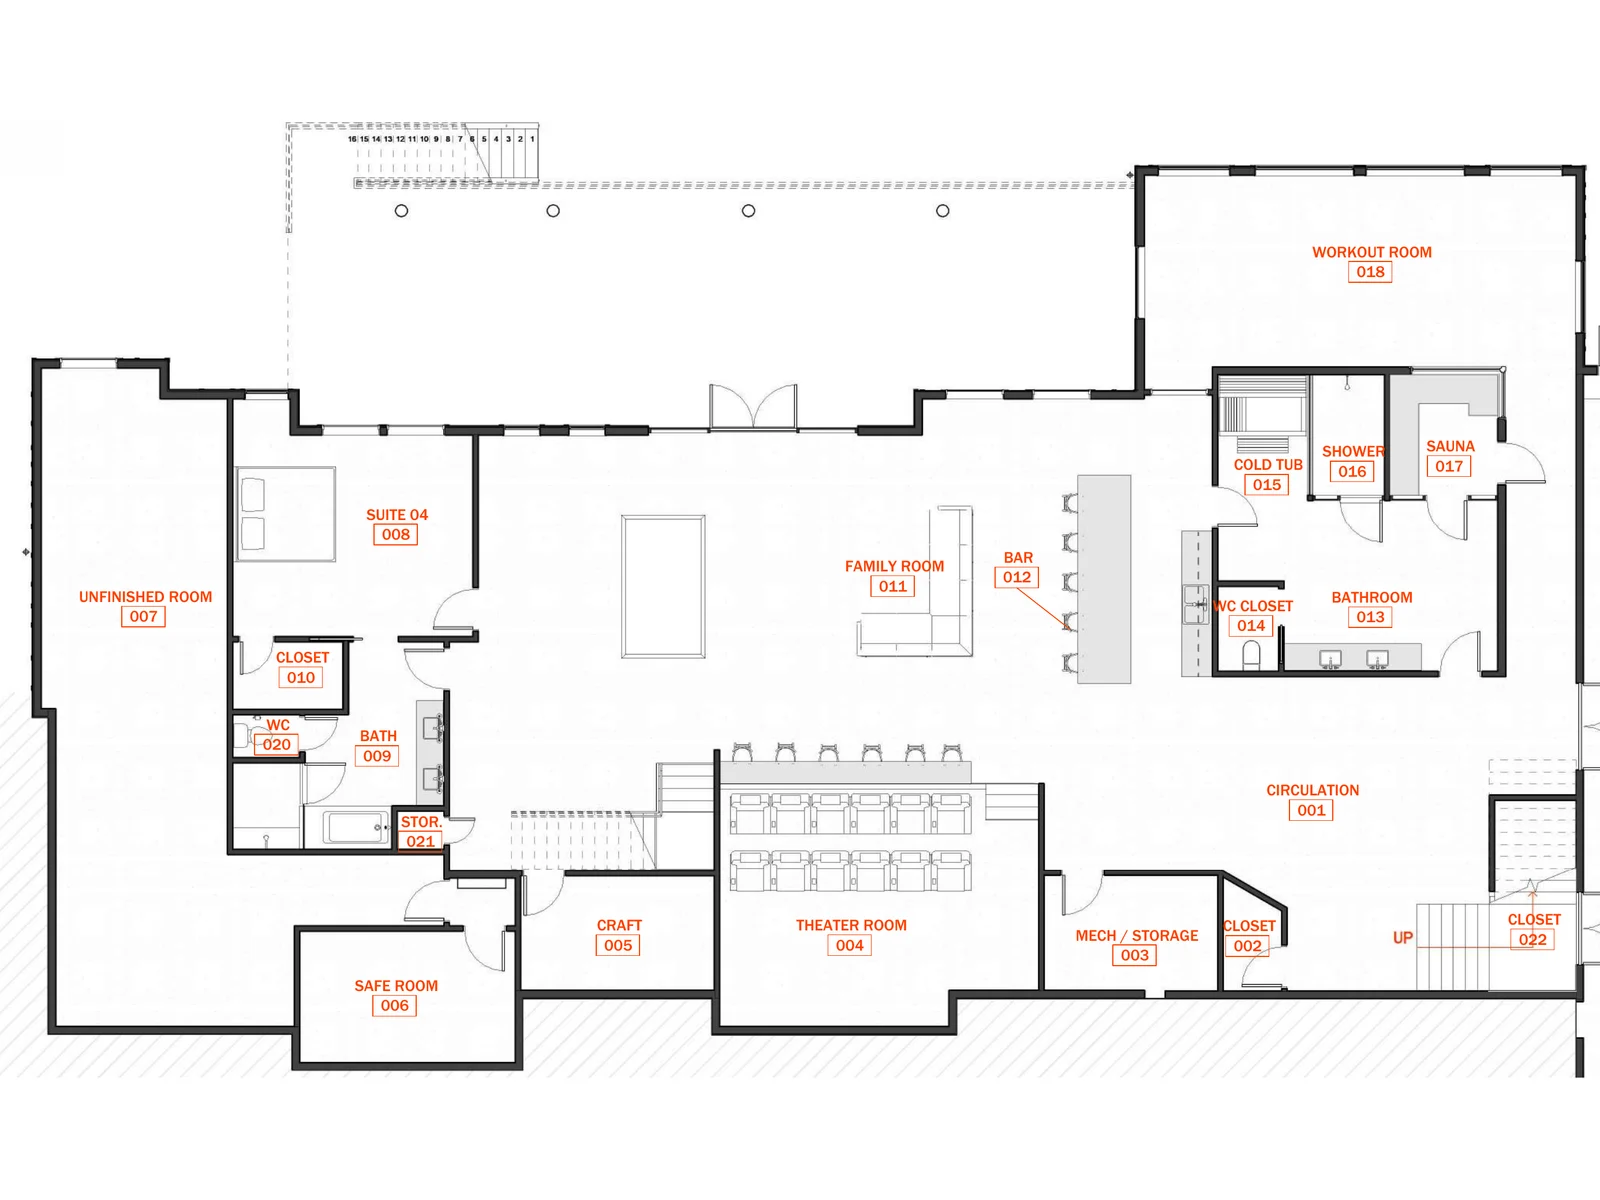
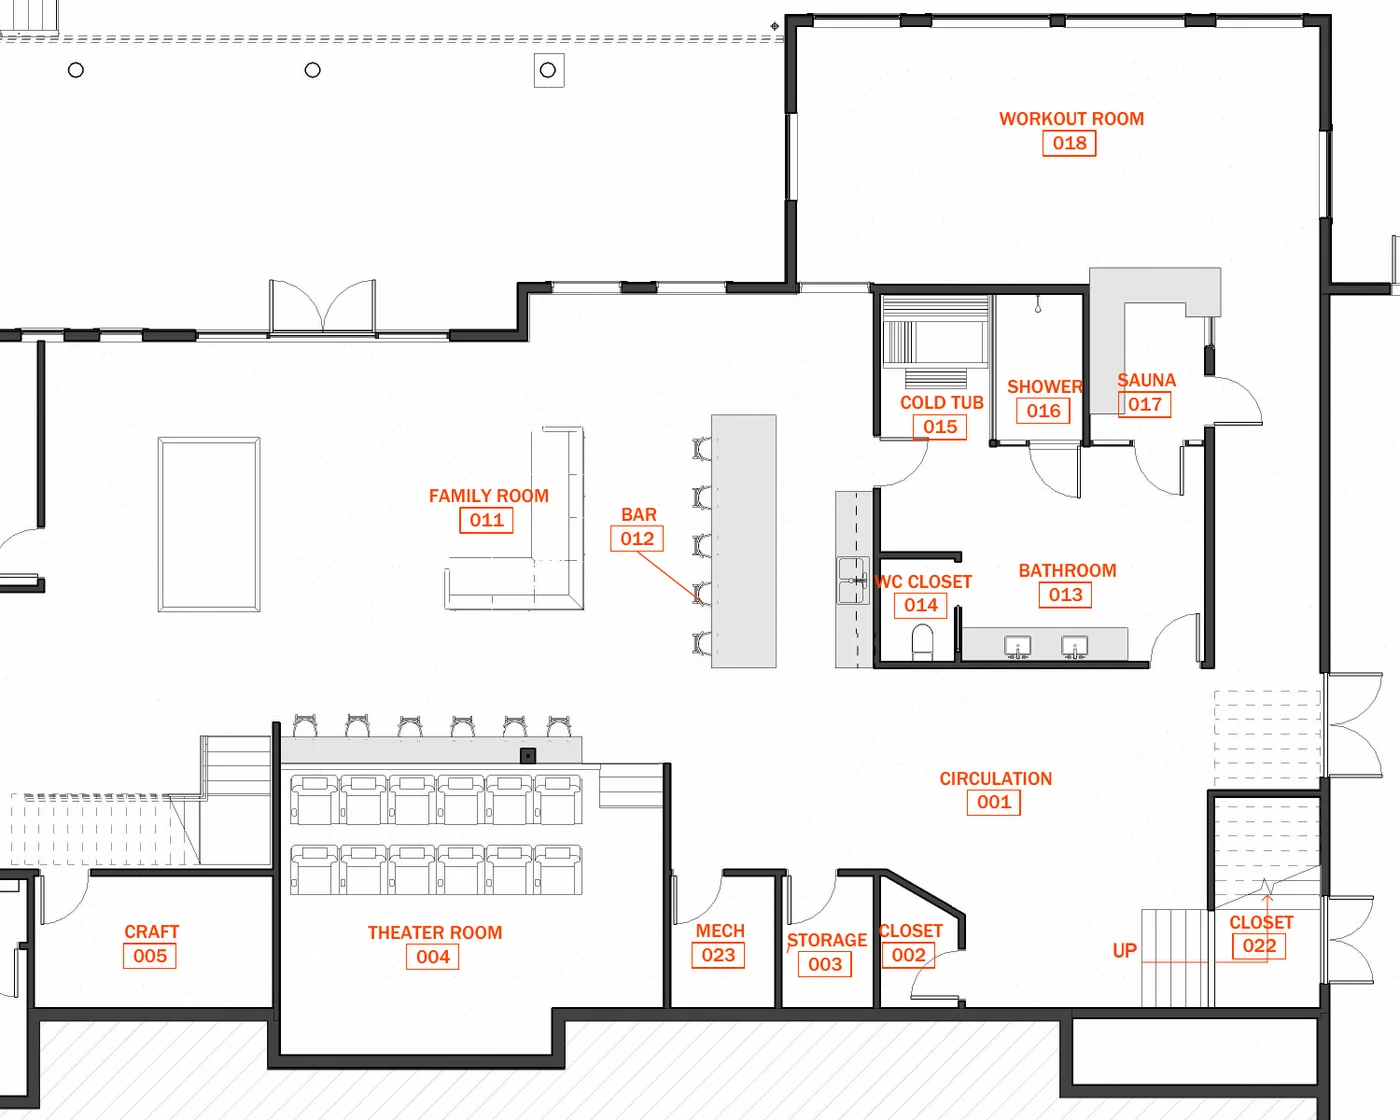
The View: every plan image now comes from the new presentation plans
The four detail crops (primary suite side, lower level leisure, spa, plus the
three full plans) are cut from the new PDFs. The moves are rewritten to say
only what the new plans show; the old garage and sauna-access stories tied
to the earlier layout are removed.

Claude-Session: https://claude.ai/code/session_01Y6YTpwHS9Kf7SnrsbfitZp

diff --git a/site/src/content/projects/pt/ohio-residence.md b/site/src/content/projects/pt/ohio-residence.md
@@ -23,27 +23,27 @@ moves:
   image: ../../../assets/ohio-sheet-ground.webp
   alt: Planta do térreo com sala de pé-direito duplo, cozinha, suíte principal e varanda envidraçada
 - title: Um ambiente que funciona o ano todo
-  text: Uma varanda de três a quatro estações precisa ser acabada e climatizada por baixo, para evitar condensação na face inferior do segundo pavimento. As dimensões de 14 por 30 pés vêm do espaço livre que o proprietário queria ao redor de uma mesa com cadeiras, e ela é voltada para a vista.
+  text: Uma varanda de três a quatro estações precisa ser acabada e climatizada por baixo, para evitar condensação na face inferior do segundo pavimento. Ela fica nos fundos da casa e é voltada para a vista.
   image: ../../../assets/ohio-rear.webp
   alt: Renderização dos fundos de The View com sala de vidro angulada, deck longo e nível inferior com saída para o jardim
+- title: Um lado tranquilo para os proprietários
+  text: No térreo, a suíte principal, o banheiro, o closet e um escritório ficam em um lado próprio da sala de estar, para que os proprietários possam se recolher com a casa cheia.
+  image: ../../../assets/ohio-m-egress.webp
+  alt: 'Planta do térreo: suíte principal, banheiro, closet, escritório e lavanderia'
 - title: Lazer embaixo, um mezanino em cima
-  text: 'O nível inferior, com saída para o terreno, concentra o lazer e as atividades mais reservadas: cinema, academia, sauna e suíte de hóspedes. O cinema se alinha com a sala principal, para que as duas telas sejam vistas ao mesmo tempo. No segundo pavimento, um mezanino fica perto das suítes dos filhos.'
+  text: 'O nível inferior, com saída para o terreno, concentra o lazer e as atividades mais reservadas: sala de estar com bar, cinema, sala de treino, suíte de hóspedes e meia quadra. No segundo pavimento, um mezanino das crianças fica perto das suítes dos filhos.'
   image: ../../../assets/ohio-m-sight.webp
-  alt: 'Planta do nível inferior: cinema alinhado com a sala de estar, o bar e a academia'
-- title: Duas portas, uma sauna maior
-  text: Foi testada uma sauna de vidro de canto com três acessos. Sobrava espaço para apenas um banco utilizável. A sauna final tem dois acessos, pelo corredor e pelo banheiro, e uma área maior que aproveita o espaço liberado pela nova planta.
+  alt: 'Planta do nível inferior: sala de estar, bar, cinema, sala de treino, sauna e banheira fria'
+- title: Um spa ao lado da sala de estar
+  text: A sauna, a banheira fria, o chuveiro e o banheiro ficam agrupados ao lado da sala de estar e do bar, então o nível inferior serve tanto para um recolhimento tranquilo quanto para uma noite cheia de convidados.
   image: ../../../assets/ohio-m-sauna.webp
-  alt: 'Detalhe da planta do nível inferior: sauna, banheira fria, chuveiro e sala de estar'
-- title: Espaço para o carro dar ré
-  text: O bloco de garagem, hall de entrada e armário de casacos foi deslocado para o lado, para que o carro que dá ré na garagem passe livre do beiral da entrada coberta.
-  image: ../../../assets/ohio-m-garage.webp
-  alt: 'Detalhe da planta do térreo: hall de entrada, armário de casacos, corredor e garagem'
+  alt: 'Detalhe da planta do nível inferior: sala de estar, bar, banheira fria, chuveiro, sauna e banheiro'
 sheets:
 - image: ../../../assets/ohio-sheet-lower.webp
-  alt: Planta do nível inferior com sala de estar, cinema, sala segura, sauna e meia quadra
+  alt: Planta do nível inferior com sala de estar, bar, cinema, sala de treino, sauna e meia quadra
   caption: Planta do nível inferior
 - image: ../../../assets/ohio-sheet-ground.webp
-  alt: Planta do térreo com sala de pé-direito duplo, cozinha, suíte principal e varanda envidraçada
+  alt: Planta do térreo com sala de pé-direito duplo, cozinha, suíte principal, varanda envidraçada e garagem
   caption: Planta do térreo
 - image: ../../../assets/ohio-sheet-second.webp
   alt: Planta do segundo pavimento com mezanino das crianças, três suítes e lavanderia
@@ -51,8 +51,8 @@ sheets:
 - image: ../../../assets/ohio-sheet-elev.webp
   alt: Elevações esquerda e direita da residência em Ohio, em terreno inclinado
   caption: Elevações esquerda e direita
-outcomeTitle: "Situação atual"
-outcome: "The View está em desenvolvimento e em aprovação. O conjunto de desenhos está marcado como Emitido para revisão (Não para construção) e segue o código de Ohio. A casa não foi construída."
+outcomeTitle: Situação atual
+outcome: The View está em desenvolvimento e em aprovação. O conjunto de desenhos está marcado como Emitido para revisão (Não para construção) e segue o código de Ohio. A casa não foi construída.
 heroCaption: The View, a partir do projeto. Uma renderização, não uma fotografia. A casa não foi construída.
 movesTitle: Como a família moldou o projeto
 movesIntro: Uma casa deste tamanho ainda precisa ser equilibrada e acolhedora. O trabalho foi manter os volumes em harmonia entre si e com as vistas dos fundos, e deixar que a forma como a família vive decidisse cada ambiente.

diff --git a/site/src/content/projects/en/ohio-residence.md b/site/src/content/projects/en/ohio-residence.md
@@ -23,27 +23,27 @@ moves:
   image: ../../../assets/ohio-sheet-ground.webp
   alt: Ground floor plan with two-story great room, kitchen, primary suite and three-season room
 - title: A room that works in all seasons
-  text: A three to four season room has to be finished and conditioned underneath, to avoid condensation on the underside of the second floor. Its 14 by 30 ft size comes from the clearance the owner wanted around a table and chairs, and it faces the view.
+  text: A three to four season room has to be finished and conditioned underneath, to avoid condensation on the underside of the second floor. It sits at the back of the house and faces the view.
   image: ../../../assets/ohio-rear.webp
   alt: Rear rendering of The View with an angled glass room, long deck and walkout lower level
+- title: A quiet side for the owners
+  text: On the ground floor, the primary bedroom, bath, closet, and an office sit on their own side of the great room, so the owners can step away from a full house.
+  image: ../../../assets/ohio-m-egress.webp
+  alt: 'Ground floor plan: primary bedroom, bath, closet, office and laundry'
 - title: Leisure below, a loft above
-  text: 'The walkout lower level holds the leisure and more private activities: a theater, a gym, a sauna, and a guest suite. The theater lines up with the main living space so both screens can be seen at once. On the second floor, a loft sits close to the children’s suites.'
+  text: 'The walkout lower level holds the leisure and more private activities: a family room with a bar, a theater, a workout room, a guest suite, and a half-court gym. On the second floor, a kids loft sits close to the children’s suites.'
   image: ../../../assets/ohio-m-sight.webp
-  alt: 'Lower level plan: theater aligned with the family room, bar and workout room'
-- title: Two doors, a larger sauna
-  text: A corner glass sauna with three access points was tested. It left room for only one usable bench. The final sauna has two access points, from the hallway and the bathroom, and a larger footprint that uses the space freed by the new layout.
+  alt: 'Lower level plan: family room, bar, theater, workout room, sauna and cold tub'
+- title: A spa beside the family room
+  text: The sauna, cold tub, shower, and bathroom are grouped together next to the family room and the bar, so the lower level works for a quiet recovery and for a full evening with guests.
   image: ../../../assets/ohio-m-sauna.webp
-  alt: 'Lower level plan detail: sauna, cold tub, shower and family room'
-- title: Room for a car to back out
-  text: The garage, foyer, and coat closet block was shifted sideways so a car backing out of the garage clears the roof overhang of the covered entry.
-  image: ../../../assets/ohio-m-garage.webp
-  alt: 'Ground floor plan detail: foyer, coat closet, hallway and garage'
+  alt: 'Lower level plan detail: family room, bar, cold tub, shower, sauna and bathroom'
 sheets:
 - image: ../../../assets/ohio-sheet-lower.webp
-  alt: Lower level floor plan with family room, theater, safe room, sauna and half-court gym
+  alt: Lower level floor plan with family room, bar, theater, workout room, sauna and half-court gym
   caption: Lower level plan
 - image: ../../../assets/ohio-sheet-ground.webp
-  alt: Ground floor plan with two-story great room, kitchen, primary suite and three-season room
+  alt: Ground floor plan with two-story great room, kitchen, primary suite, three-season room and garage
   caption: Ground floor plan
 - image: ../../../assets/ohio-sheet-second.webp
   alt: Second floor plan with kids loft, three suites and laundry
@@ -51,8 +51,8 @@ sheets:
 - image: ../../../assets/ohio-sheet-elev.webp
   alt: Left and right elevations of the Ohio residence on a sloping site
   caption: Left and right elevations
-outcomeTitle: "Status"
-outcome: "The View is under development and approval. The drawing set is marked Issued for Review (Not for Construction) and follows Ohio code. The house has not been built."
+outcomeTitle: Status
+outcome: The View is under development and approval. The drawing set is marked Issued for Review (Not for Construction) and follows Ohio code. The house has not been built.
 heroCaption: The View, from the project design. A rendering, not a photograph. The house has not been built.
 movesTitle: How the family shaped the design
 movesIntro: A house this large still has to feel balanced and warm. The work was to keep the volumes in harmony with each other and with the views at the back, and to let the way the family lives decide each room.
